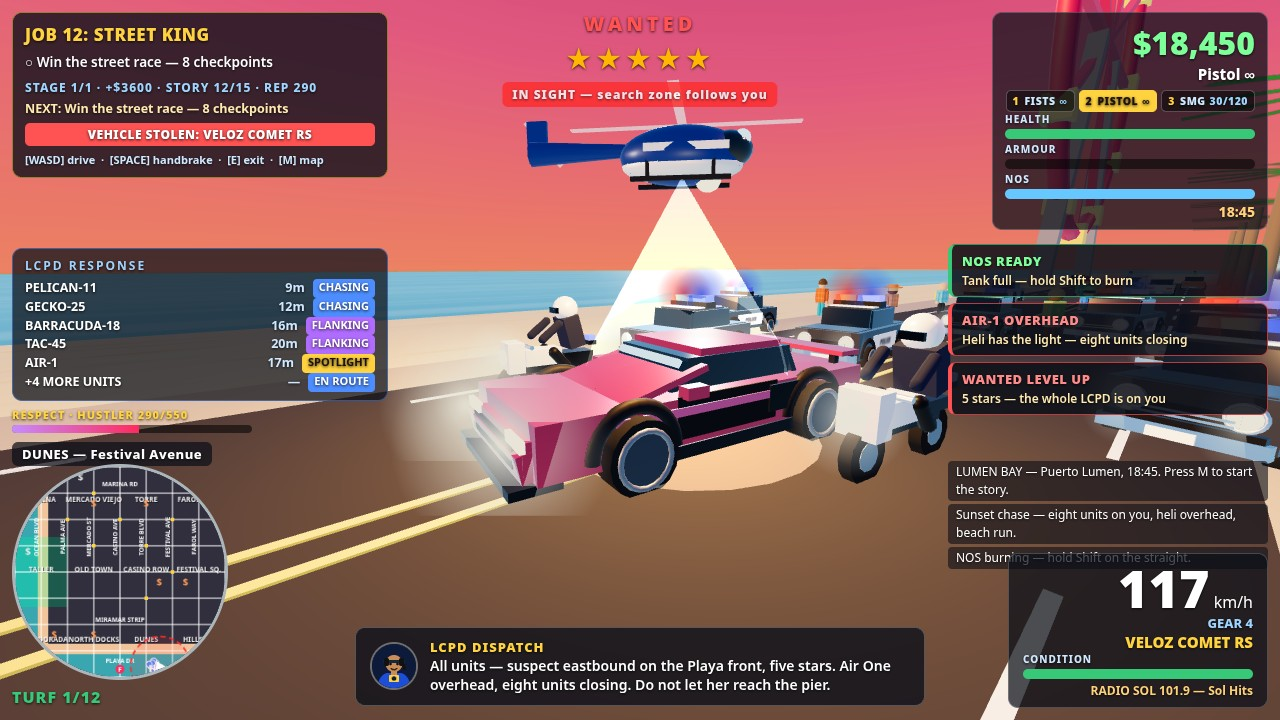
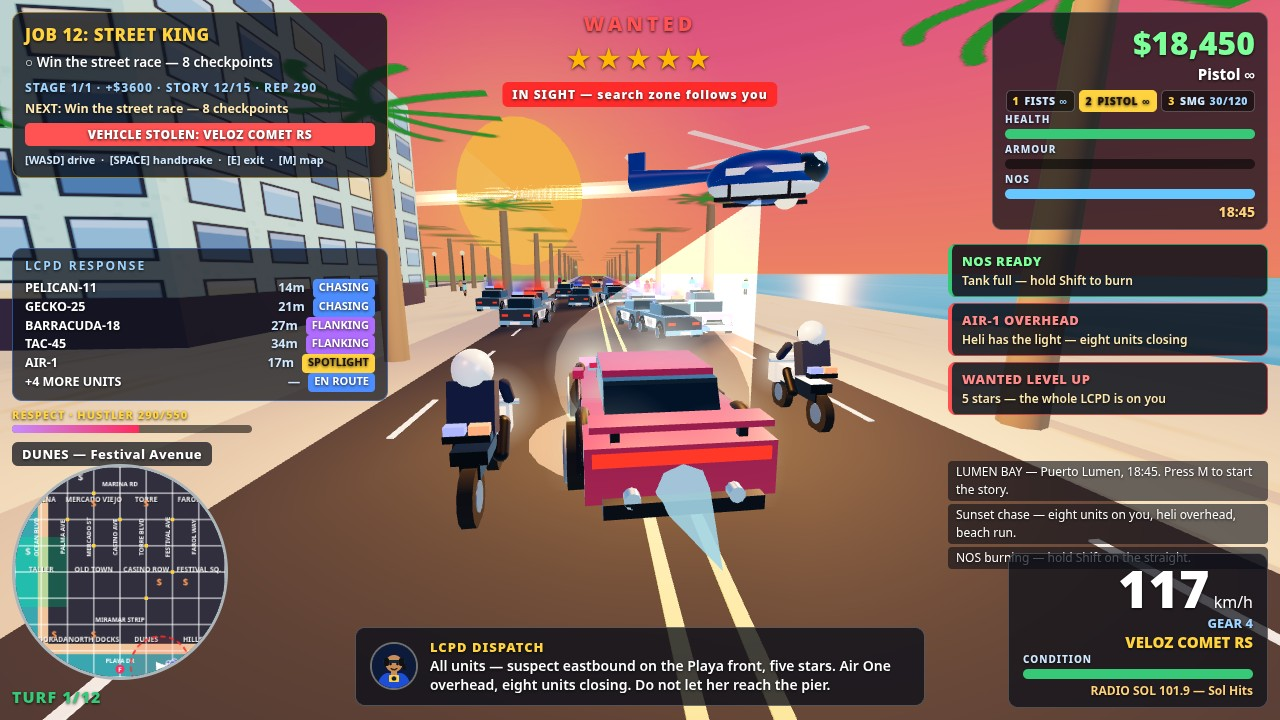
r12 shot 1: 3D boulevard rebuild — low chase cam down a 420 m road to the sunset, palms both sides, police column ahead, heli ahead (Sand 07:57, GAS)

diff --git a/game/src/shots.js b/game/src/shots.js
@@ -23,38 +23,32 @@
 import { ROB_TARGETS } from './config.js';
 import { poseAim } from './people.js';
 
-// Cover: SUNSET beach-front chase. Hot pink-red Comet RS LARGE in frame,
-// nose toward the lens, NOS burning, EIGHT cruisers behind it at staggered
-// depths with flashing light bars and headlights ON, heli overhead with a
-// visible body + searchlight cone, traffic + beachgoers down the beach,
-// palms, the ferris wheel on the horizon, full dense HUD: mission panel +
-// alerts, WANTED 5 stars, big green cash, police response list (eight units
-// + AIR-1, capped display + footer), notification toasts, weapon slots,
-// IN SIGHT banner, RESPECT bar, search-zone minimap, dispatch dialogue,
-// big speed. Warm golden-hour light, long shadows, wet-looking sand.
-// r12 round-2 re-shoot (Sand ~23:45: the 91f401a take still read as Lego
-// boxes): the chase now runs on a REAL BEACHFRONT ROAD (top-1 Karimbu /
-// top-2 Tangerine Mile layout — asphalt + double-yellow centre line +
-// white dashes + palms lining it, sea on one side), NOT bare sand; the
-// camera sits further round the front (camYaw -1.15) so the Comet's nose +
-// sloped hood + grille + headlights face the lens; the cruiser pack is
-// widened so its fronts flank the hero instead of hiding behind him.
-// The centre "1:47" timer is GONE — it overlapped the IN SIGHT banner.
+// 3D BOULEVARD REBUILD (Sand 2026-11-21 ~07:57 WIT, GAS before deadline):
+// top-1 Karimbu / top-2 Tangerine Mile layout, copied, not imagined — LOW
+// chase cam BEHIND-and-above the hero looking DOWN a long boulevard: the
+// road (asphalt + double-yellow + white dashes) runs 420 m east to the
+// horizon with the low sunset sun dead ahead, palms lining BOTH sides,
+// beach + sea on the south (right) side, city buildings framing the north
+// (left) side, police column + roadblock AHEAD down the road, heli ahead
+// over the beach with its spotlight beam slanting back onto the hero car.
+// The old front-three-quarter take hid the road behind the hero and left
+// the frame an empty sand plane; the chase cam makes the boulevard the star.
 export function stageShot1(G) {
   G.setLighting('sunset'); // 18:45 — also stamps the HUD clock
   G.spawnSandPatch(); // deterministic tan sand at a grazing camera angle
-  G.spawnBeachRoad(-40, 220, 215); // the beachfront road: asphalt + lines
-  G.spawnPalmRow(-30, 210, 206, 24); // palms lining the road, north side
+  G.spawnBeachRoad(-40, 380, 215); // the boulevard: 420 m east to the horizon
+  G.spawnPalmRow(-30, 360, 206, 26); // palms lining the road, north side
+  G.spawnPalmRow(-30, 360, 224, 30); // palms lining the road, beach side
   G.startPlay();
   G.enterCar(G.parked[0]);
   G.warpTo(90, 215); // south beach, heading east along the Playa front
-  G.player.car.heading = Math.PI / 2 - 0.2; // nose turned toward the lens
-  G.player.car.mesh.group.rotation.y = Math.PI / 2 - 0.2;
+  G.player.car.heading = Math.PI / 2; // nose straight down the boulevard
+  G.player.car.mesh.group.rotation.y = Math.PI / 2;
   G.player.car.speed = 34;
   G.garage.nos = 120;
   G.nosBurning = true;
   G.setWanted(5);
-  G.spawnPoliceBehind(8); // the eight-cruiser pack, all facing east
+  G.spawnPoliceBehind(8); // the eight-cruiser pack, re-pinned AHEAD by the autopilot
   G.spawnPoliceBikes(); // two police motorcycles flanking the hero (Sand 02:12)
   G.clearUmbrellasAll(); // Sand 02:08 — NO umbrella anywhere in shot 1
   G.heli.active = true;
@@ -70,10 +64,11 @@ export function stageShot1(G) {
   // belly to the car + a bright pool around the car (heli.beam, aimed by
   // the shot-1 autopilot every frame). NOT the old vertical cone above.
   G.aimSpotlight(90, 1.0, 215);
-  G.spawnTrafficNear(20, 215, 6); // traffic down the beach, in the background
+  G.spawnTrafficNear(150, 215, 6); // traffic down the boulevard ahead, in frame
   G.clearTrafficNear(90, 215, 30); // NO stray car may overlap the hero
   G.clearPedsNear(90, 215, 15); // clear the hero's foreground
-  G.spawnPedsNear(55, 205, 10); // beachgoers down the beach, in frame
+  G.spawnPedsNear(140, 206, 8); // pedestrians on the north sidewalk ahead
+  G.spawnPedsNear(170, 228, 5); // beachgoers on the sand ahead, south side
   // Warm bounce light over the hero so the pink-red paint + chrome glow.
   G.addPointLight(90, 6, 215, 0xffb347, 200, 26);
   G.missions.startMission(11); // Street King race is live: checkpoints on minimap
@@ -85,16 +80,16 @@ export function stageShot1(G) {
   G.hud.notify('AIR-1 OVERHEAD', 'Heli has the light — eight units closing', 'danger', true);
   G.hud.notify('NOS READY', 'Tank full — hold Shift to burn', 'good', true);
   G.addAlert('info', 'VEHICLE STOLEN: VELOZ COMET RS');
-  // FRONT-three-quarter chase cam (top-1 madsrepo angle, pushed further
-  // round the nose): the camera sits AHEAD-EAST of the hero (camYaw
-  // -1.15), LOW (height 2.7), looking back west at the hero's nose +
-  // sloped hood + grille + headlights. At dist 8 the hero reads ~30% of
-  // the frame, the cruiser pack stacks behind him down the beachfront
-  // road, and the sky opens up at the top of the frame for the heli.
-  G.camYaw = -0.8;
-  G.setCamDist(8.5);
-  G.setCamHeight(2.8);
-  G.camPitch = 0.1;
+  // LOW CHASE CAM behind-and-above the hero (top-1/top-2 angle): camera
+  // sits WEST of the hero (camYaw = heading, slightly offset so the hero
+  // sits a touch left of centre), LOW (height 3.4), looking EAST down the
+  // boulevard — road + lane markings vanishing to the sunset horizon,
+  // palms both sides, buildings left, sea right, heli ahead. At dist 9.5
+  // the hero reads ~30% of the frame with the whole pursuit column ahead.
+  G.camYaw = Math.PI / 2 - 0.12;
+  G.setCamDist(9.5);
+  G.setCamHeight(3.4);
+  G.camPitch = 0.06;
   G.state.cash = 18450;
   // Anchor: the chase autopilot holds speed 34, so without this the hero
   // drives hundreds of units during a slow SwiftShader settle and the
@@ -428,13 +423,13 @@ export function shotAutopilot(G, dt) {
   if (G.shotMode === 1) {
     // Cover chase: pin the speed high so the speedo reads big all the time,
     // keep the EIGHT cruisers pinned in their slots, and keep the helicopter
-    // ahead-south-west in frame, circling over the chase. Heli angle 2.4
-    // puts it SOUTH-WEST of the hero (over the beach, in the background the
-    // front camera looks at): the old 0.5 put it EAST, behind the lens.
-    // Body lands upper-left with its cone down onto the sand.
+    // ahead-east in frame, circling over the chase. Heli angle 0.45 puts it
+    // EAST of the hero (cos 0.9, sin 0.43 — ahead-right over the beach, in
+    // the frame the chase cam looks at): the old 2.4 put it WEST, behind
+    // the chase camera and out of frame.
     G.player.car.speed = 34;
     G.player.car.heading += Math.sin(performance.now() * 0.0004) * 0.05 * dt;
-    if (G.heli) { G.heli.angle = 2.4; }
+    if (G.heli) { G.heli.angle = 0.45; }
     const fx = Math.sin(G.player.car.heading), fz = Math.cos(G.player.car.heading);
     const rx = Math.cos(G.player.car.heading), rz = -Math.sin(G.player.car.heading);
     for (const rb of G.roadblocks || []) {
@@ -449,10 +444,11 @@ export function shotAutopilot(G, dt) {
     }
     // The eight-cruiser pack, pinned every frame to its staging slot.
     // Convention (same as spawnPoliceBehind): back = metres BEHIND the
-    // hero, lat = lateral (+ = north, camera side). Every cruiser faces
-    // the hero's heading, so the front camera sees eight grilles +
-    // light bars at staggered depths — a pursuit column, not a wall of
-    // tailgates.
+    // hero, lat = lateral (+ = north, camera side). 3D BOULEVARD REBUILD:
+    // the chase cam looks EAST down the road, so the pack is pinned AHEAD
+    // of the hero (NEGATIVE back) down the boulevard — like top-1/top-2,
+    // where the police column + roadblock sit down the road in front of
+    // the hero. Pinned behind, they would sit on top of the camera.
     const pin = (kind, back, lat, face, speed) => {
       for (const c of (G.police || []).filter((c) => c.kind === kind)) {
         c.x = G.player.x - fx * back + rx * lat;
@@ -463,11 +459,11 @@ export function shotAutopilot(G, dt) {
         c.mesh.group.rotation.y = c.heading;
       }
     };
-    pin('chase', 7, -6, G.player.car.heading, 34);
-    pin('chase2', 11, 6, G.player.car.heading, 34);
+    pin('chase', -14, -4, G.player.car.heading, 34);
+    pin('chase2', -20, 5, G.player.car.heading, 34);
     // Flank trio: staggered depths on both sides of the pursuit column.
     const flank = (G.police || []).filter((c) => c.kind === 'flank');
-    const flankSlots = [[13, -10], [17, 10], [22, -3]];
+    const flankSlots = [[-26, -9], [-32, 9], [-40, -3]];
     flank.forEach((c, i) => {
       const [back, lat] = flankSlots[i] || flankSlots[0];
       c.x = G.player.x - fx * back + rx * lat;
@@ -480,7 +476,7 @@ export function shotAutopilot(G, dt) {
     // Closers: three more cruisers down the middle of the column, so the
     // pursuit reads eight deep instead of five + three stragglers.
     const headon = (G.police || []).filter((c) => c.kind === 'headon');
-    const headonSlots = [[12, -3], [19, 5], [26, 1]];
+    const headonSlots = [[-18, -3], [-28, 5], [-36, 1]];
     headon.forEach((c, i) => {
       const [back, lat] = headonSlots[i] || headonSlots[0];
       c.x = G.player.x - fx * back + rx * lat;
